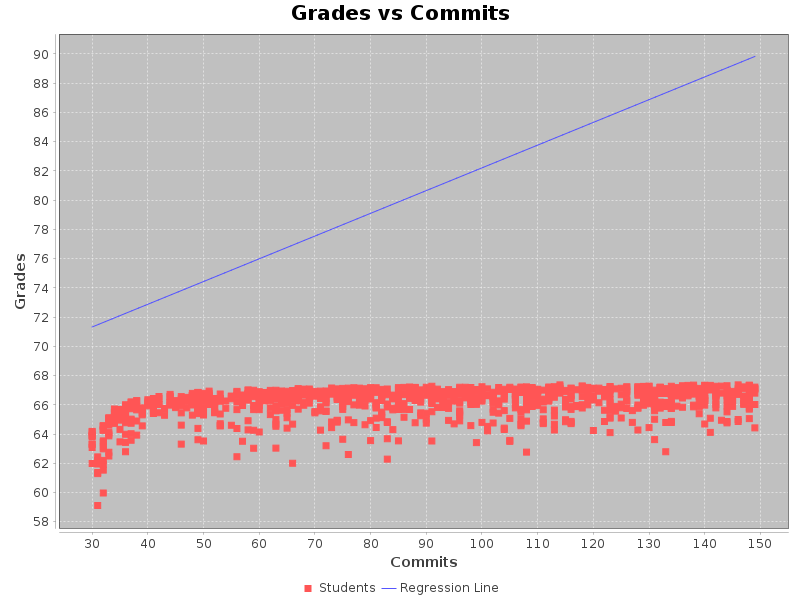
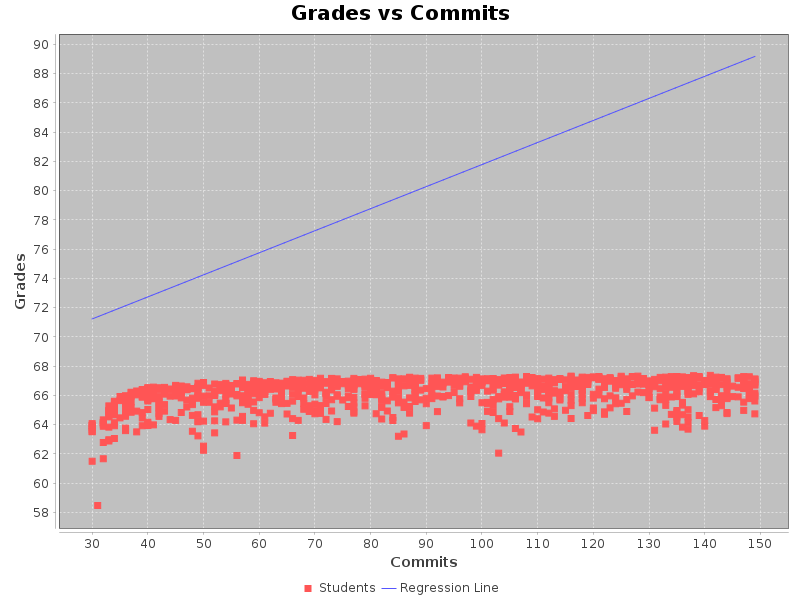
udpateing some variabels

diff --git a/src/main/java/com/nighthawk/spring_portfolio/mvc/models/MultiVarAnalyticsGradeRegression.java b/src/main/java/com/nighthawk/spring_portfolio/mvc/models/MultiVarAnalyticsGradeRegression.java
@@ -95,7 +95,7 @@ public class MultiVarAnalyticsGradeRegression {
 
         RegressionResult result = new RegressionResult();
         result.setCoefficients(coefficients);
-        result.setXData(xData);  // Store normalized xData in the result
+        result.setXData(xData);  // Store non-normalized xData in the result for graphing
         result.setYData(yData);
 
         return result;
@@ -145,11 +145,11 @@ public class MultiVarAnalyticsGradeRegression {
         int m = xData[0].length;
     
         // Calculate 10th and 75th percentiles for each predictor
-        double[] q10s = new double[m];
+        double[] q15s = new double[m];
         double[] q85s = new double[m];
         for (int j = 0; j < m; j++) {
             double[] column = getColumn(xData, j);
-            q10s[j] = calculateQuantile(column, 0.15);
+            q15s[j] = calculateQuantile(column, 0.15);
             q85s[j] = calculateQuantile(column, 0.85);
         }
     
@@ -159,7 +159,7 @@ public class MultiVarAnalyticsGradeRegression {
         for (int i = 0; i < n; i++) {
             boolean include = true;
             for (int j = 0; j < m; j++) {
-                if (xData[i][j] < q10s[j] || xData[i][j] > q85s[j]) {
+                if (xData[i][j] < q15s[j] || xData[i][j] > q85s[j]) {
                     include = false;
                     break;
                 }
